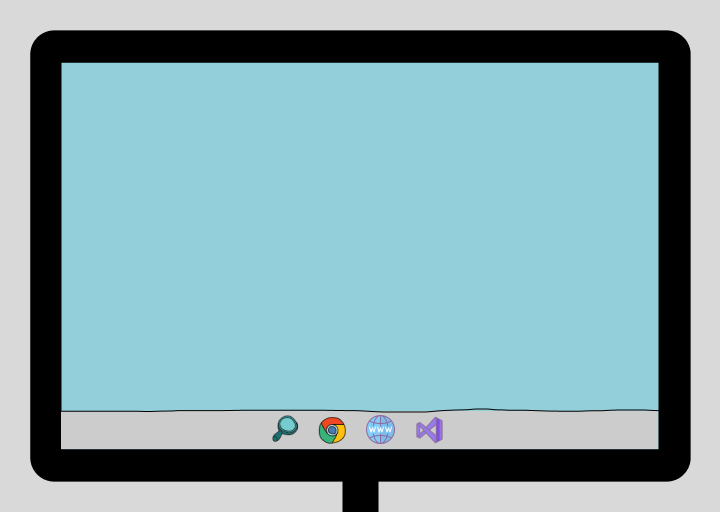
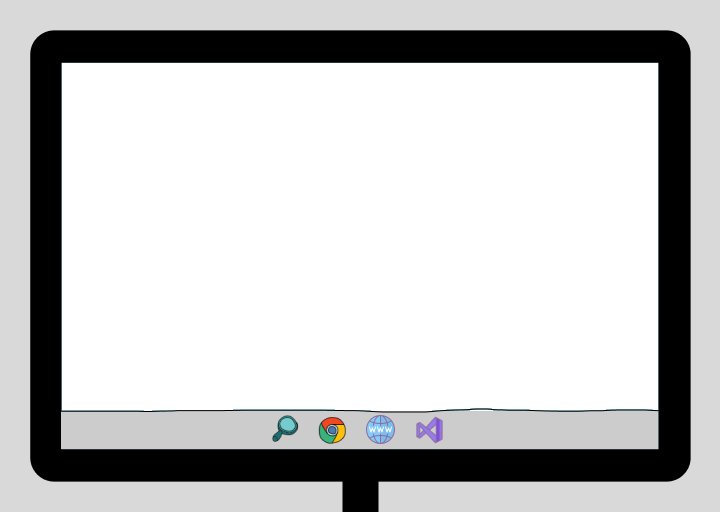
removing background from desktop imge

diff --git a/src/scenes/ComputerMechanics/ComputerScene.css b/src/scenes/ComputerMechanics/ComputerScene.css
@@ -1,7 +1,8 @@
 .screenContainer {
   width: 100%;
   height: 100%;
-  background: no-repeat center/100% url(./img/desktop-base.png);
+  background: no-repeat center/105% url(../../assets/PCMechanics/desktop-base.png);
+  background-color: aqua;
   position: relative;
   z-index: 0;
 }
